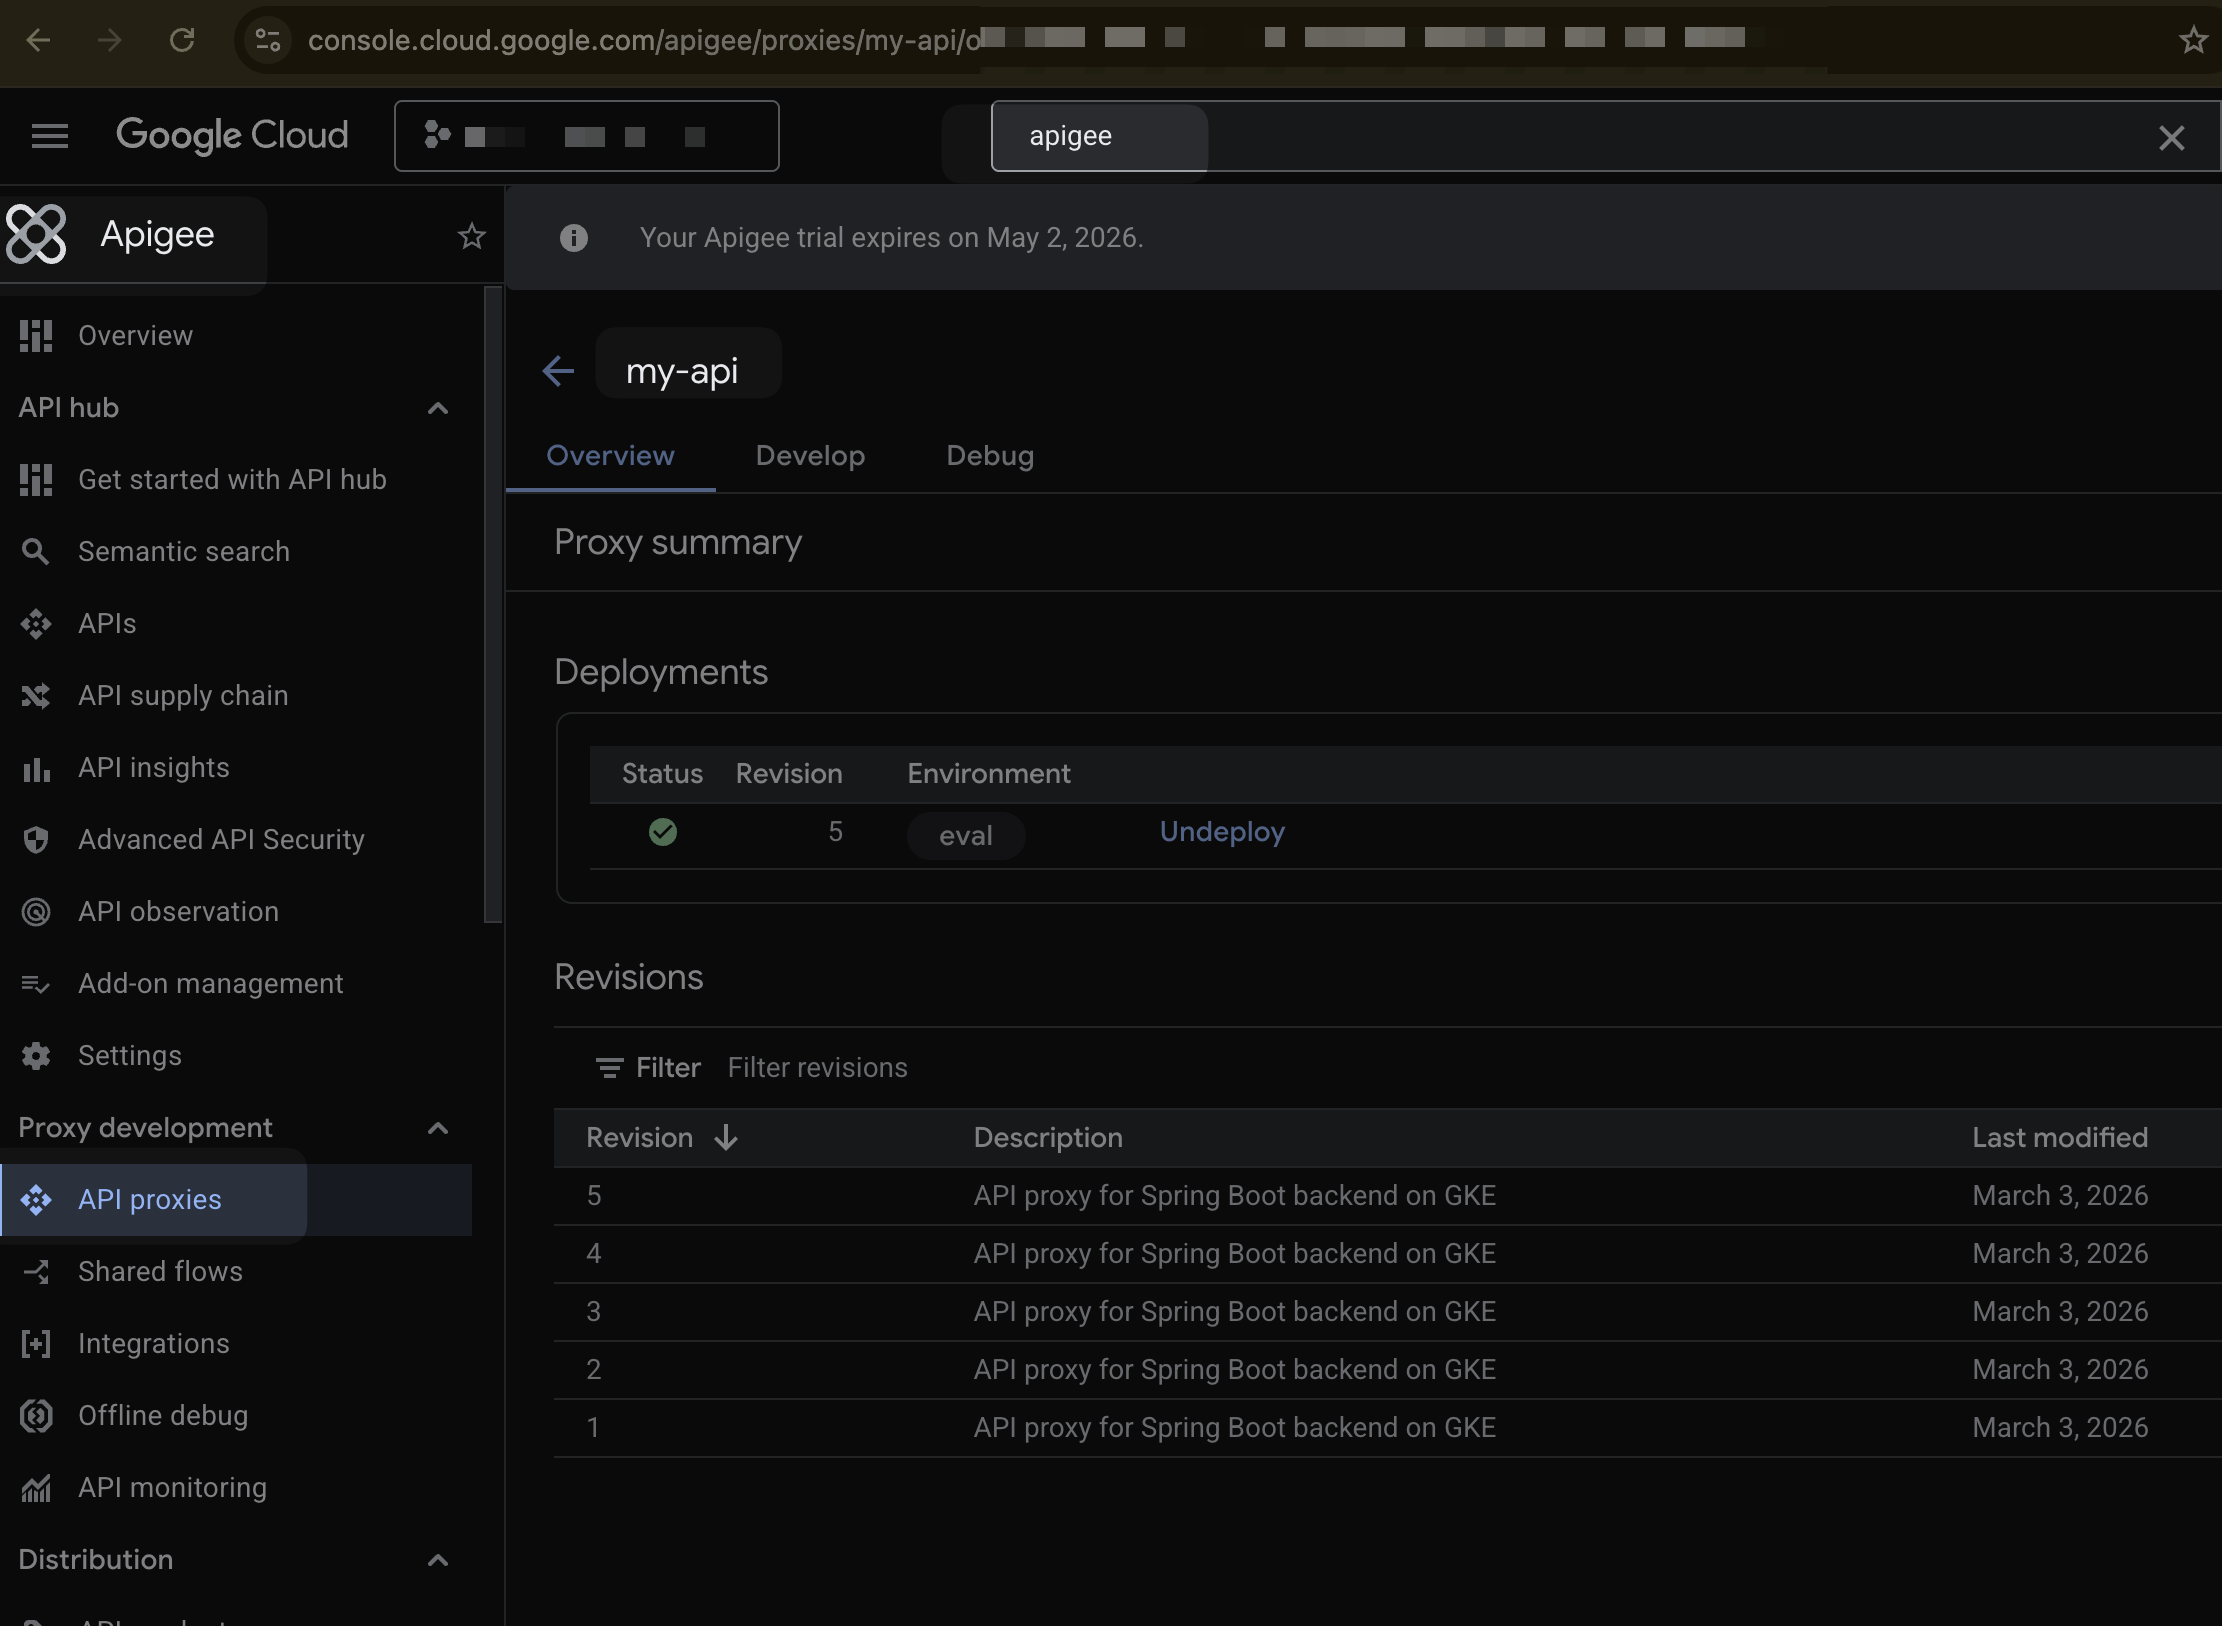
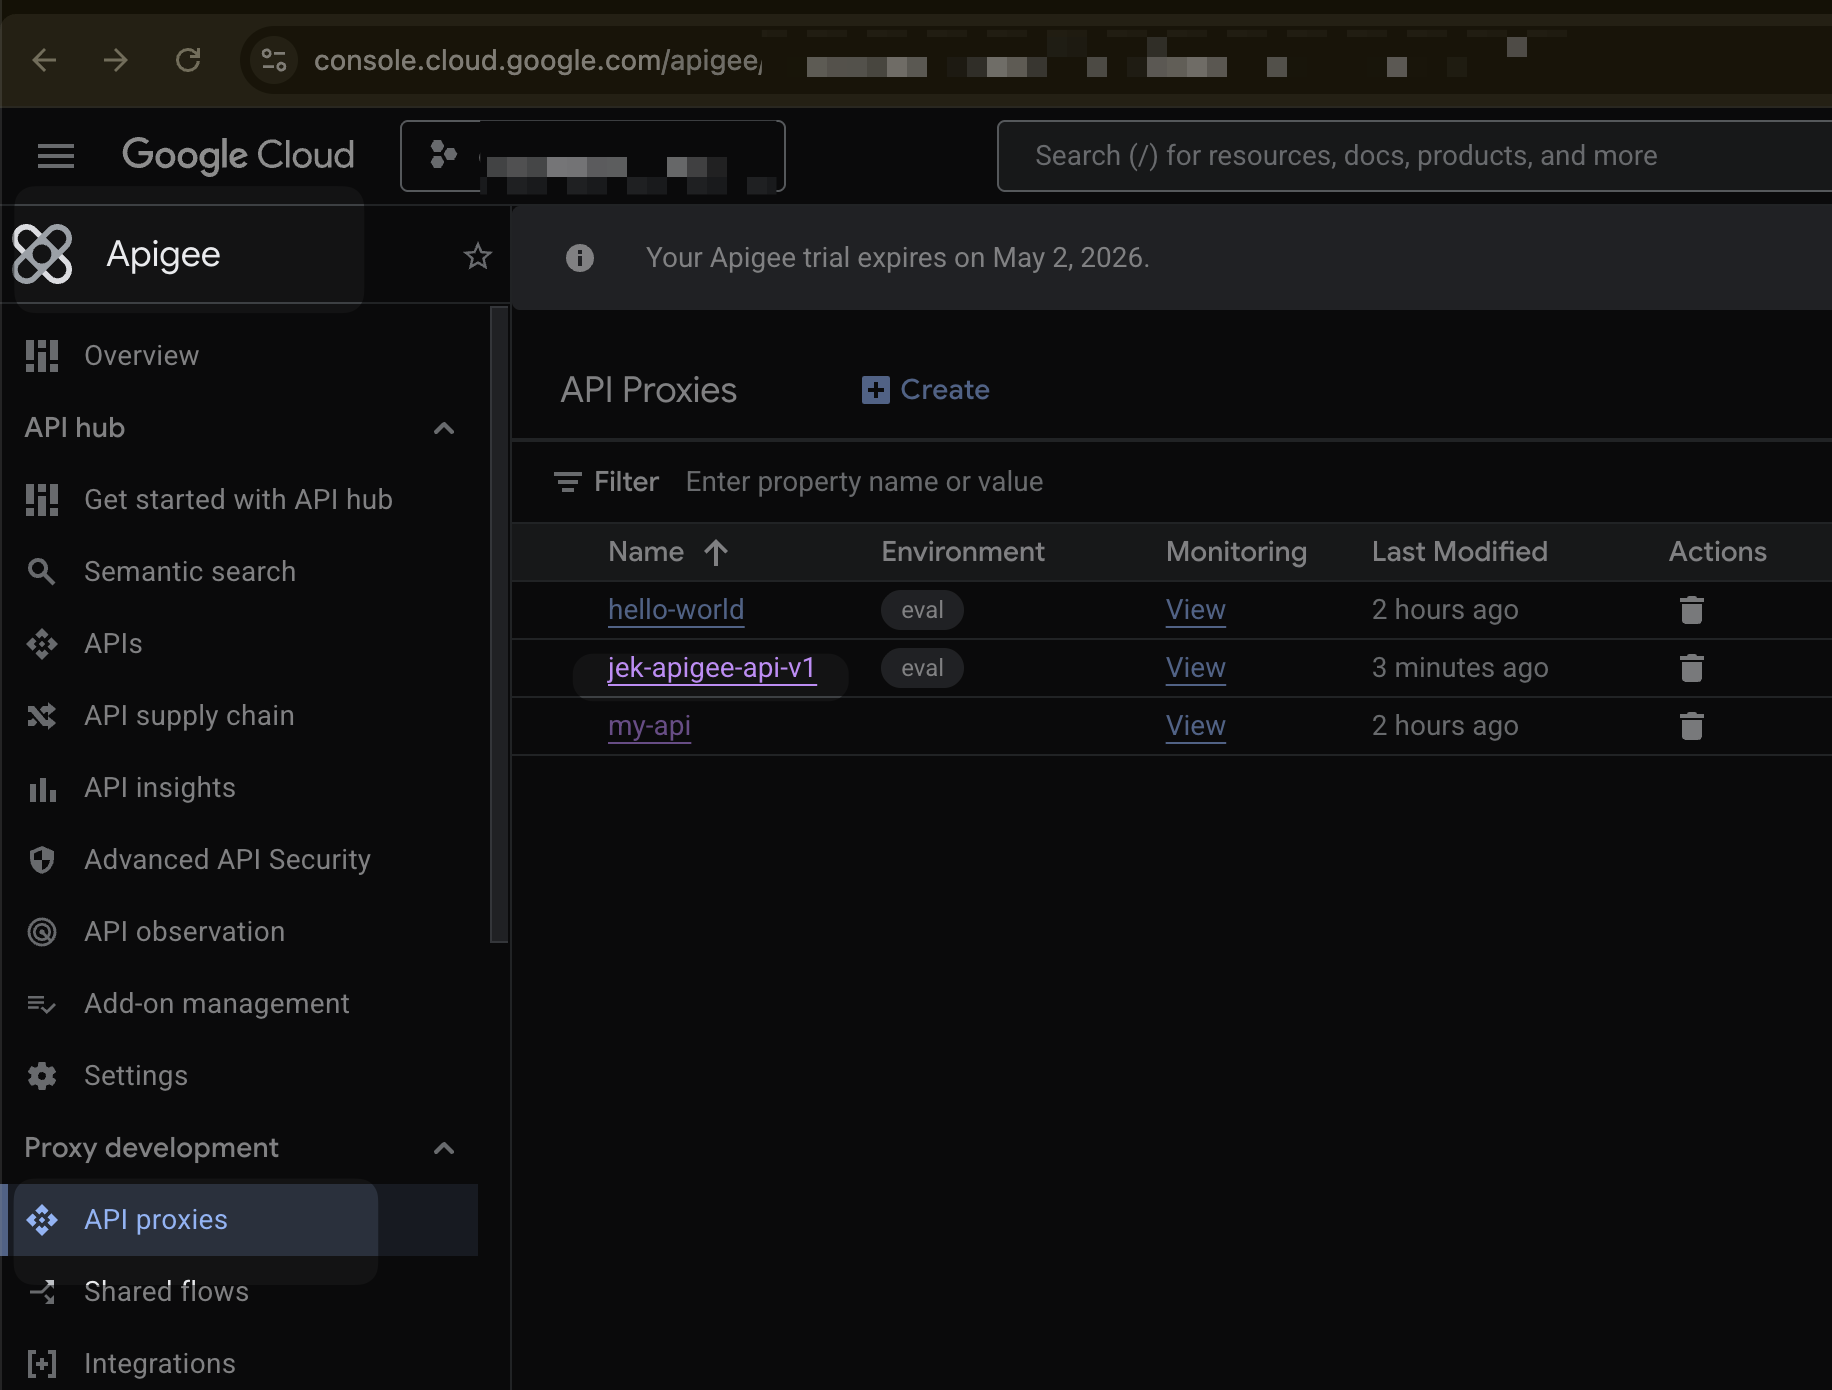
Rename Apigee API proxy from my-api to jek-apigee-api-v1
- Rename proxy bundle descriptor my-api.xml to jek-apigee-api-v1.xml
- Update proxy name and display name in the XML
- Update all references in GUIDE.md
- Update screenshot for Apigee console

diff --git a/sandbox-setup/skills/initialising-gcp-apigee/references/GUIDE.md b/sandbox-setup/skills/initialising-gcp-apigee/references/GUIDE.md
@@ -771,7 +771,7 @@ The proxy bundle files have been created at `apiproxy/` relative to this guide:
 
 ```
 apiproxy/
-├── my-api.xml              # Root proxy descriptor
+├── jek-apigee-api-v1.xml              # Root proxy descriptor
 ├── proxies/
 │   └── default.xml         # ProxyEndpoint (receives requests on /api)
 ├── targets/
@@ -780,7 +780,7 @@ apiproxy/
 ```
 
 Key files:
-- `apiproxy/my-api.xml` — proxy name and base path (`/api`)
+- `apiproxy/jek-apigee-api-v1.xml` — proxy name and base path (`/api`)
 - `apiproxy/proxies/default.xml` — incoming request routing
 - `apiproxy/targets/default.xml` — forwards to endpoint attachment host `http://7.0.4.2:80` (from Phase 3.4)
 
@@ -819,14 +819,14 @@ curl -L https://raw.githubusercontent.com/apigee/apigeecli/main/downloadLatest.s
 
 # Import the proxy bundle (note the revision number in the output)
 "$HOME/.apigeecli/bin/apigeecli" apis create bundle \
-    -n my-api \
+    -n jek-apigee-api-v1 \
     -f ./apiproxy \
     -o "$ORG" \
     --token "$(gcloud auth print-access-token)"
 
 # Deploy to the environment (set -v to the revision number from the output above)
 "$HOME/.apigeecli/bin/apigeecli" apis deploy \
-    -n my-api \
+    -n jek-apigee-api-v1 \
     -e "$APIGEE_ENV" \
     -v 1 \
     -o "$ORG" \
@@ -840,11 +840,11 @@ curl -L https://raw.githubusercontent.com/apigee/apigeecli/main/downloadLatest.s
 
 ```bash
 # Zip the proxy bundle
-cd apiproxy && zip -r ../my-api-proxy.zip . && cd ..
+cd apiproxy && zip -r ../jek-apigee-api-v1-proxy.zip . && cd ..
 
 gcloud alpha apigee archives deploy \
     --environment="$APIGEE_ENV" \
-    --source=./my-api-proxy.zip \
+    --source=./jek-apigee-api-v1-proxy.zip \
     --organization="$ORG"
 ```
 
@@ -853,7 +853,7 @@ gcloud alpha apigee archives deploy \
 ```bash
 # List deployed proxies
 "$HOME/.apigeecli/bin/apigeecli" apis listdeploy \
-    -n my-api \
+    -n jek-apigee-api-v1 \
     -o "$ORG" \
     --token "$(gcloud auth print-access-token)"
 
@@ -884,7 +884,7 @@ gcloud compute backend-services get-health jek-apigee-proxy-backend \
 
 # 4. Verify the Apigee proxy is deployed
 "$HOME/.apigeecli/bin/apigeecli" apis listdeploy \
-    -n my-api \
+    -n jek-apigee-api-v1 \
     -o "$ORG" \
     --token "$(gcloud auth print-access-token)"
 
@@ -905,7 +905,7 @@ kubectl get svc springboot-ilb
    - Verify backends show **Healthy** (green checkmarks)
    - Check the **Frontend** section shows your external IP and HTTPS:443
 
-2. **Apigee dashboard**: Go to **Apigee** → **API proxies** → click `my-api`
+2. **Apigee dashboard**: Go to **Apigee** → **API proxies** → click `jek-apigee-api-v1`
    - Verify deployment status shows **Deployed** in the `eval` environment
    - Click **Debug** → **Start Debug Session** → trigger a request with curl → view the request/response flow through Apigee policies
 
@@ -966,7 +966,7 @@ curl -s \
     -X POST \
     "https://apigee.googleapis.com/v1/organizations/$PROJECT/environments/$APIGEE_ENV/traceConfig/overrides" \
     -d '{
-      "apiProxy": "my-api",
+      "apiProxy": "jek-apigee-api-v1",
       "samplingConfig": {
         "sampler": "PROBABILITY",
         "samplingRate": 1.0
@@ -1275,7 +1275,7 @@ kubectl delete configmap otel-collector-config --ignore-not-found
 # --- Apigee Proxy ---
 # Undeploy the proxy
 "$HOME/.apigeecli/bin/apigeecli" apis undeploy \
-    -n my-api \
+    -n jek-apigee-api-v1 \
     -e "$APIGEE_ENV" \
     -v 1 \
     -o "$ORG" \
@@ -1283,7 +1283,7 @@ kubectl delete configmap otel-collector-config --ignore-not-found
 
 # Delete the proxy
 "$HOME/.apigeecli/bin/apigeecli" apis delete \
-    -n my-api \
+    -n jek-apigee-api-v1 \
     -o "$ORG" \
     --token "$(gcloud auth print-access-token)"
 
